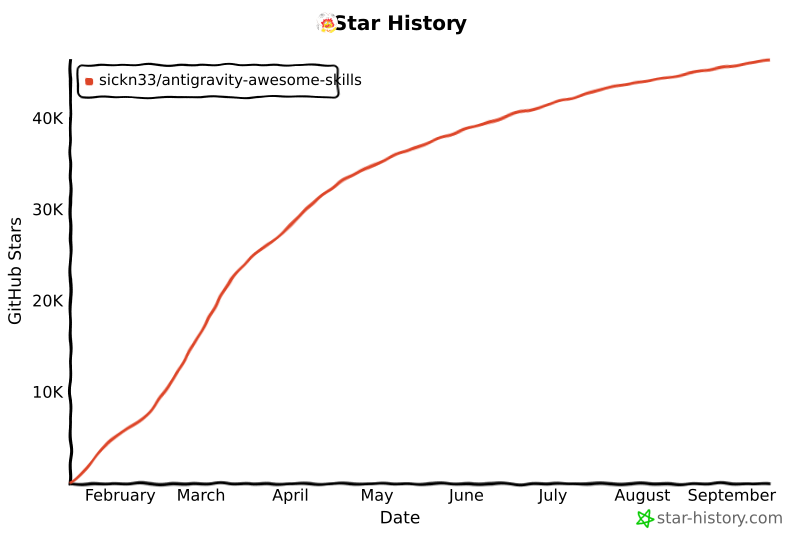
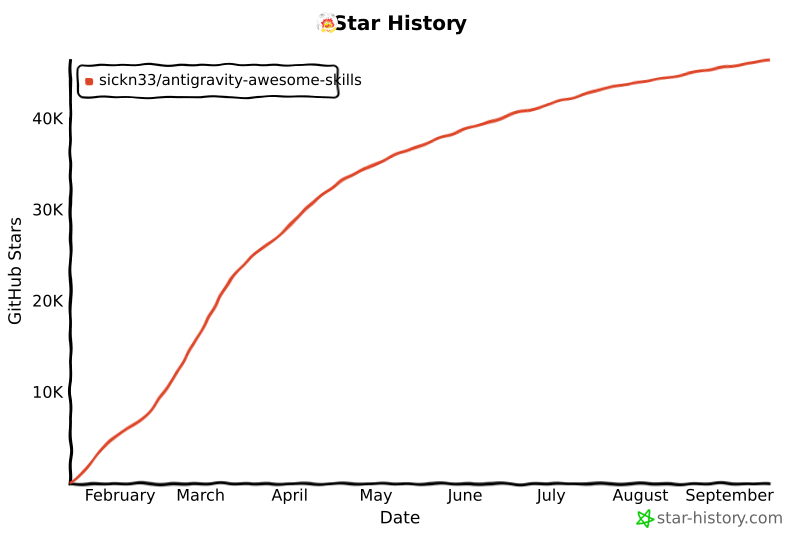
chore: update star history chart

diff --git a/README.md b/README.md
@@ -478,14 +478,14 @@ We officially thank the following contributors for their help in making this rep
 ## Star History
 
 <a href="https://www.star-history.com/#sickn33/antigravity-awesome-skills&type=date&legend=top-left">
- <img alt="Star History Chart" src="https://api.star-history.com/svg?repos=sickn33/antigravity-awesome-skills&type=date&legend=top-left&cache_bust=202609141115" />
+ <img alt="Star History Chart" src="https://api.star-history.com/svg?repos=sickn33/antigravity-awesome-skills&type=date&legend=top-left&cache_bust=202609151041" />
 </a>
 
 <a href="https://www.star-history.com/sickn33/antigravity-awesome-skills">
  <picture>
-   <source media="(prefers-color-scheme: dark)" srcset="https://api.star-history.com/chart?repos=sickn33/antigravity-awesome-skills&style=landscape1&theme=dark&cache_bust=202609141115" />
-   <source media="(prefers-color-scheme: light)" srcset="https://api.star-history.com/chart?repos=sickn33/antigravity-awesome-skills&style=landscape1&cache_bust=202609141115" />
-   <img alt="Star History Chart" src="https://api.star-history.com/chart?repos=sickn33/antigravity-awesome-skills&style=landscape1&cache_bust=202609141115" />
+   <source media="(prefers-color-scheme: dark)" srcset="https://api.star-history.com/chart?repos=sickn33/antigravity-awesome-skills&style=landscape1&theme=dark&cache_bust=202609151041" />
+   <source media="(prefers-color-scheme: light)" srcset="https://api.star-history.com/chart?repos=sickn33/antigravity-awesome-skills&style=landscape1&cache_bust=202609151041" />
+   <img alt="Star History Chart" src="https://api.star-history.com/chart?repos=sickn33/antigravity-awesome-skills&style=landscape1&cache_bust=202609151041" />
  </picture>
 </a>
 
